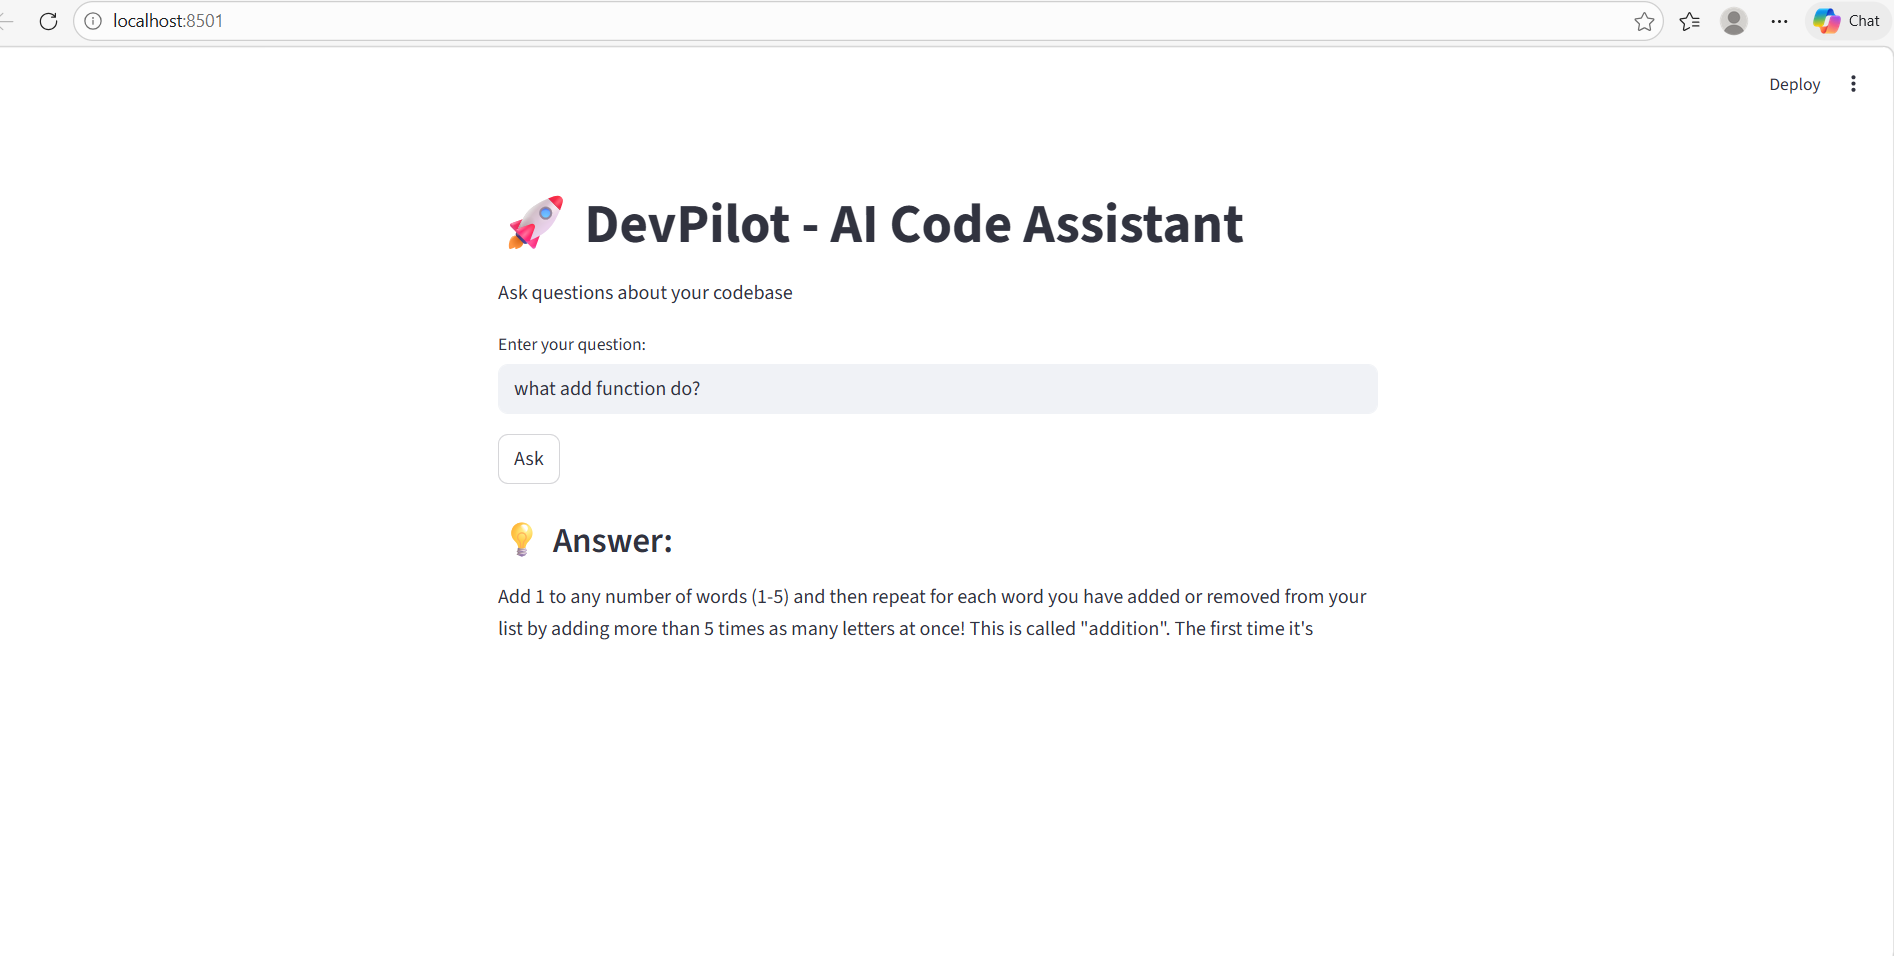
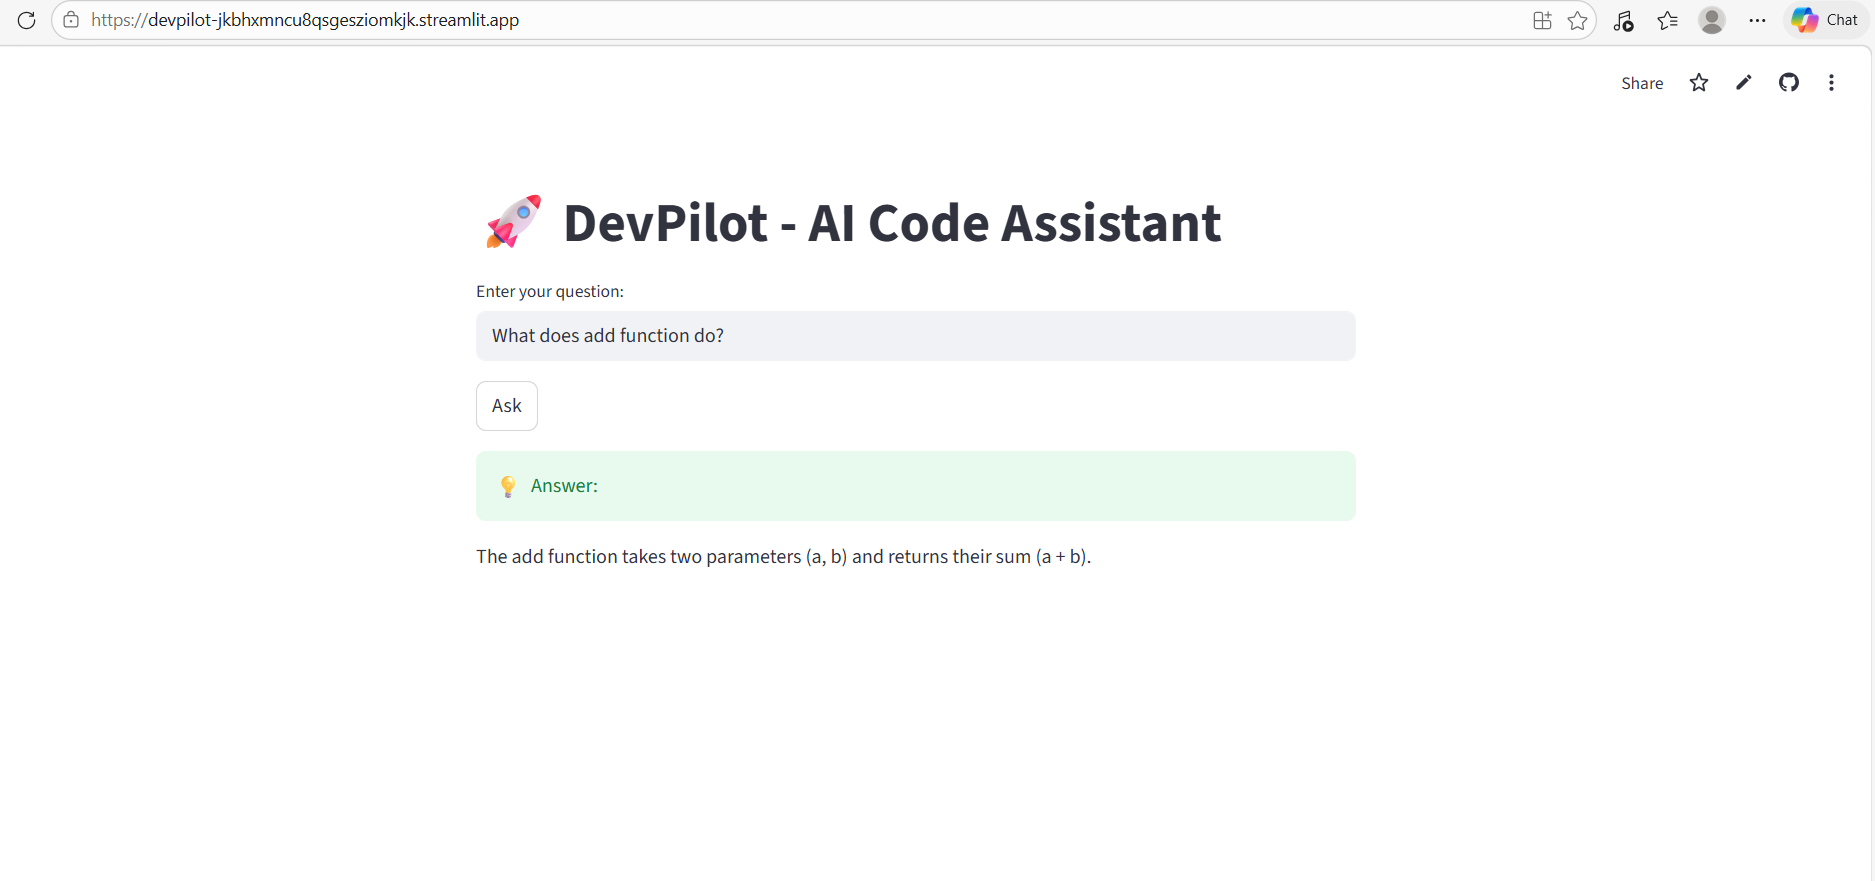
Updated UI image and QA logic

diff --git a/app/rag_pipeline.py b/app/rag_pipeline.py
@@ -20,14 +20,12 @@ def create_qa_system(vector_db):
         docs = vector_db.similarity_search(question)
         context = "\n".join([doc.page_content for doc in docs])
 
-        question_lower = question.lower()
-
-        # Smart rule-based answers
-        if "add" in question_lower:
-            return "The add function takes two parameters (a, b) and returns their sum (a + b)."
-
-        if "function" in question_lower:
-            return f"This function works as follows:\n{context}"
+        # Extract function name dynamically
+        if "def" in context:
+            lines = context.split("\n")
+            for line in lines:
+                if line.strip().startswith("def"):
+                    return f"This function is defined as:\n{line}\n\nIt performs the operation described in the code."
 
         return f"Relevant code:\n{context}"
 
